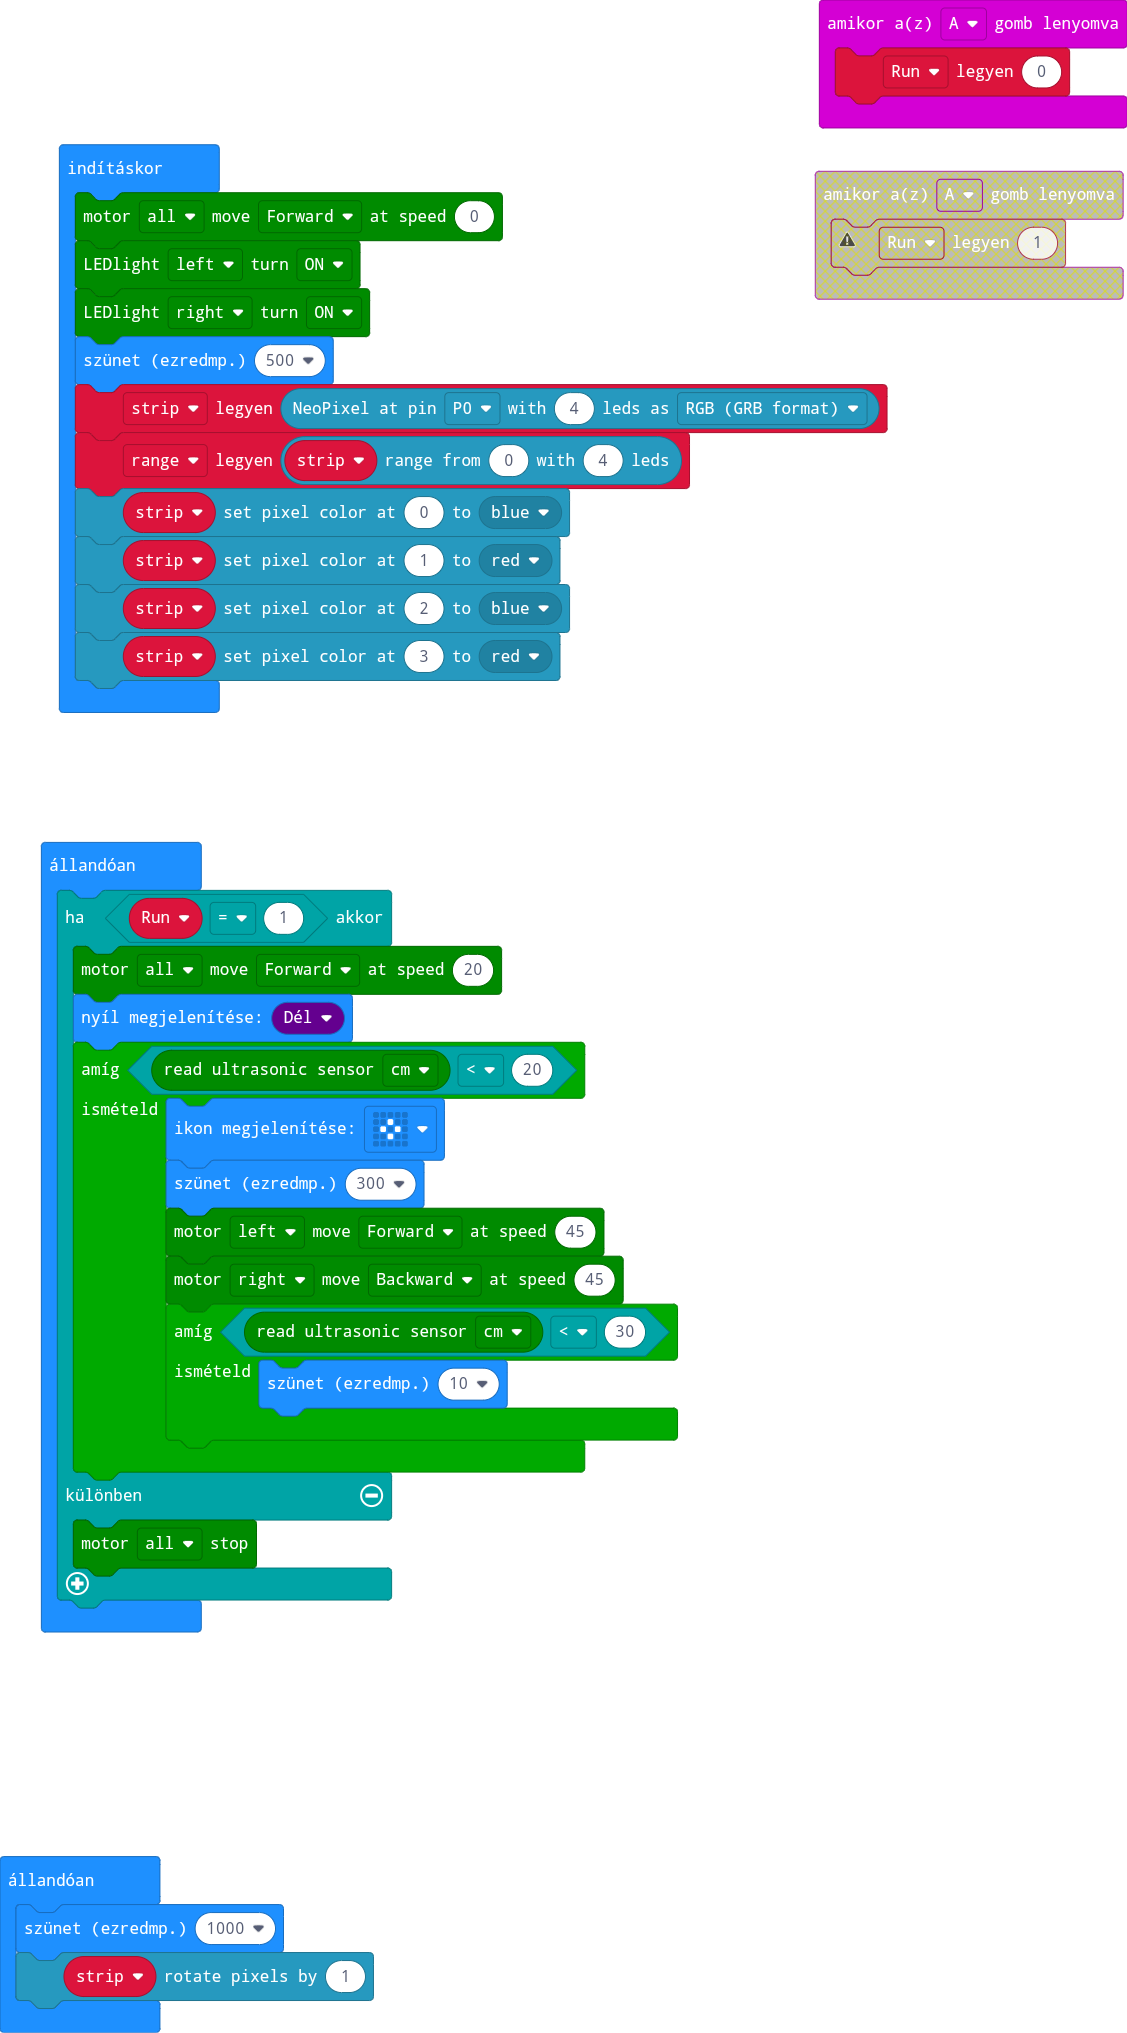
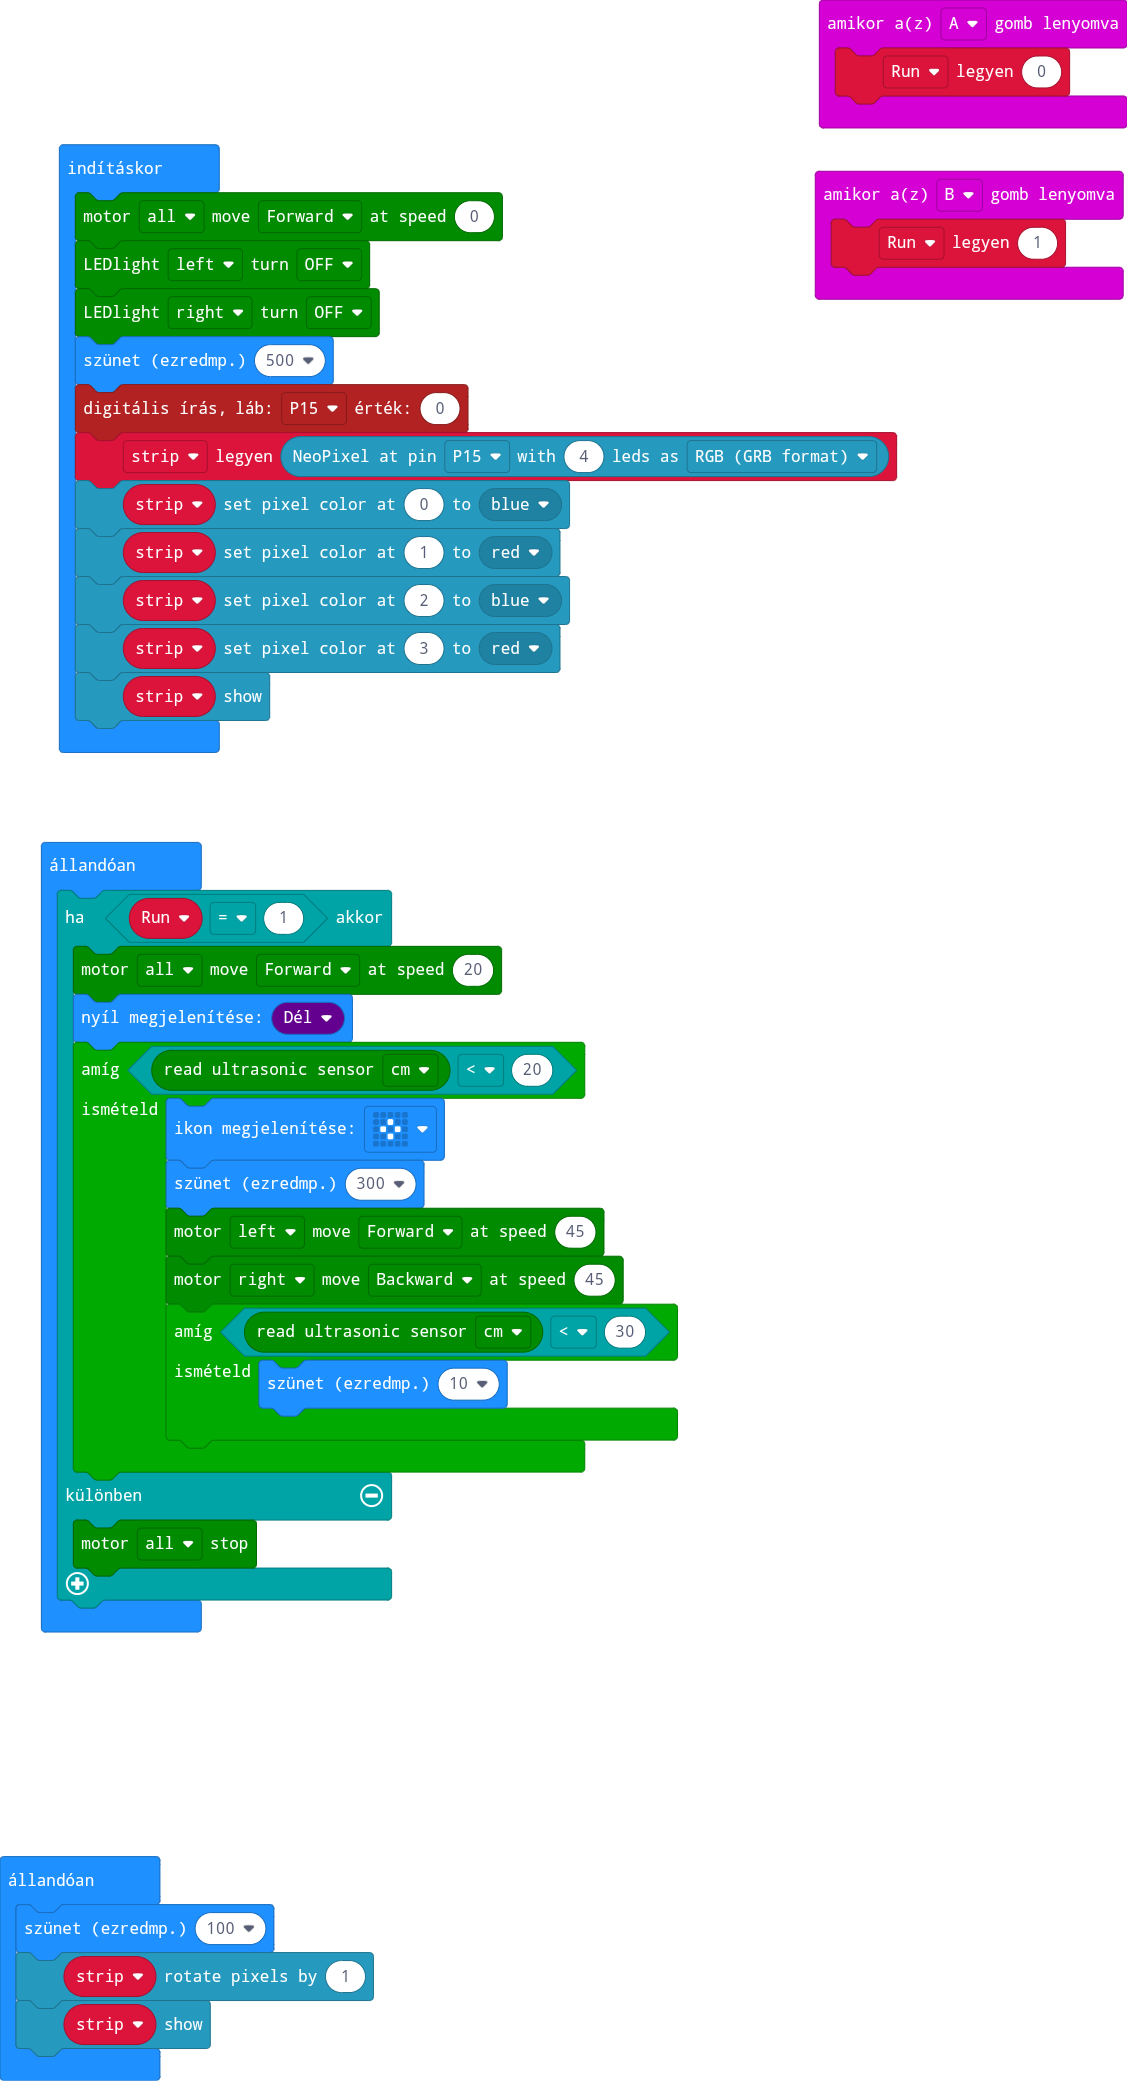
Villogó működik

diff --git a/main.ts b/main.ts
@@ -1,17 +1,21 @@
 input.onButtonPressed(Button.A, function () {
     Run = 0
 })
+input.onButtonPressed(Button.B, function () {
+    Run = 1
+})
 let Run = 0
 maqueen.motorRun(maqueen.Motors.All, maqueen.Dir.CW, 0)
-maqueen.writeLED(maqueen.LED.LEDLeft, maqueen.LEDswitch.turnOn)
-maqueen.writeLED(maqueen.LED.LEDRight, maqueen.LEDswitch.turnOn)
+maqueen.writeLED(maqueen.LED.LEDLeft, maqueen.LEDswitch.turnOff)
+maqueen.writeLED(maqueen.LED.LEDRight, maqueen.LEDswitch.turnOff)
 basic.pause(500)
-let strip = neopixel.create(DigitalPin.P0, 4, NeoPixelMode.RGB)
-let range = strip.range(0, 4)
+pins.digitalWritePin(DigitalPin.P15, 0)
+let strip = neopixel.create(DigitalPin.P15, 4, NeoPixelMode.RGB)
 strip.setPixelColor(0, neopixel.colors(NeoPixelColors.Blue))
 strip.setPixelColor(1, neopixel.colors(NeoPixelColors.Red))
 strip.setPixelColor(2, neopixel.colors(NeoPixelColors.Blue))
 strip.setPixelColor(3, neopixel.colors(NeoPixelColors.Red))
+strip.show()
 basic.forever(function () {
     if (Run == 1) {
         maqueen.motorRun(maqueen.Motors.All, maqueen.Dir.CW, 20)
@@ -30,6 +34,7 @@ basic.forever(function () {
     }
 })
 basic.forever(function () {
-    basic.pause(1000)
+    basic.pause(100)
     strip.rotate(1)
+    strip.show()
 })
